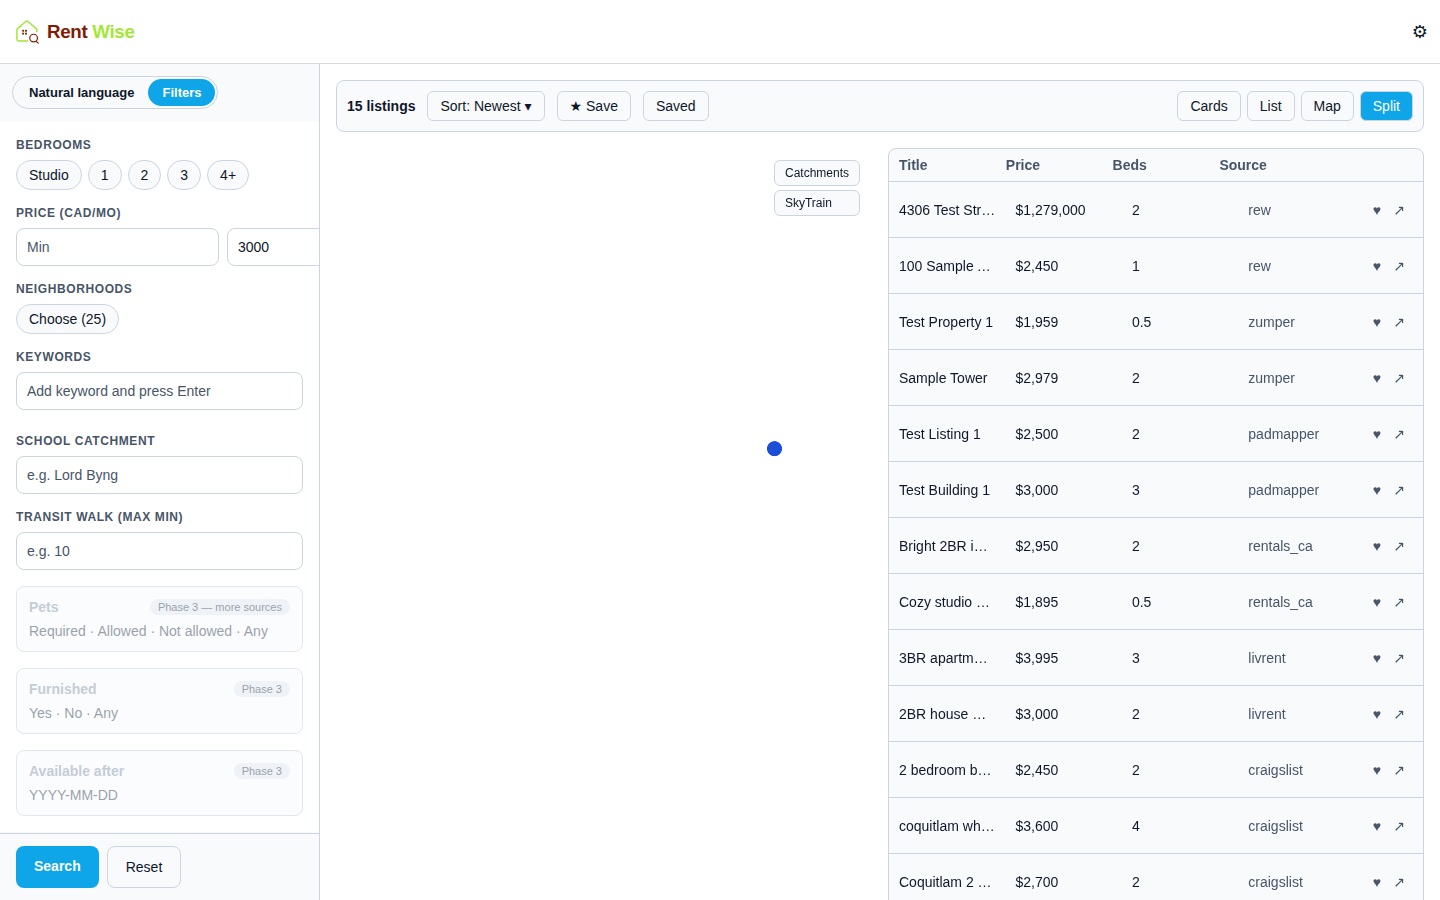
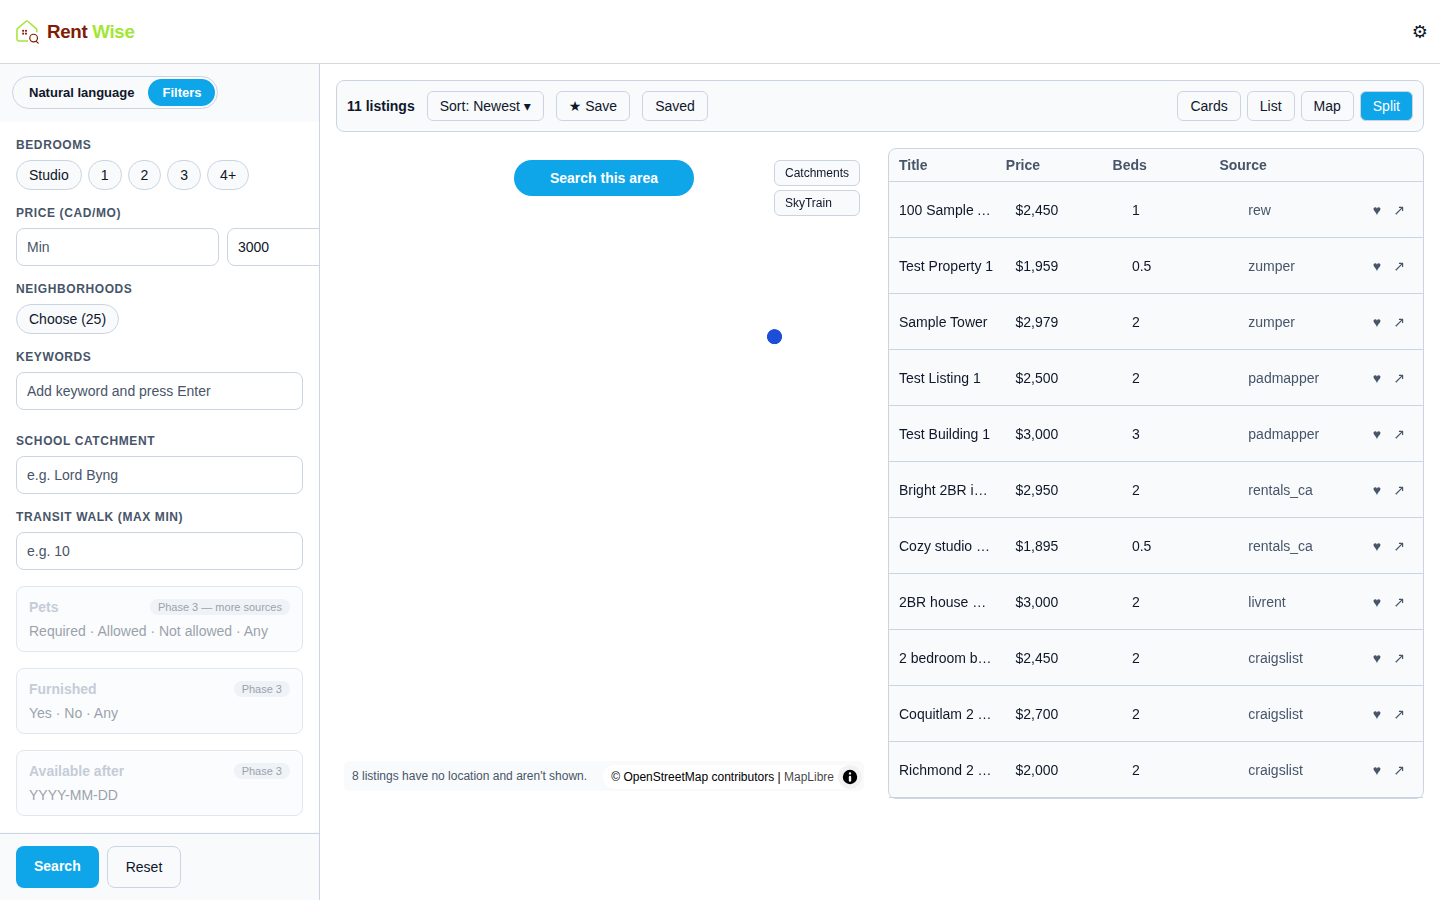
fix(adapters): honor price / bedroom / keyword filters in demo mode
Codex review on #117: with `supported_filters=set()` the aggregator's
`project_query_to_capabilities` was stripping `price_*`, `bedrooms_*`,
and `free_text_keywords` before the call ever reached the demo adapter,
so demo searches returned listings that violated the requested
constraints (the $1.3M REW row showed under a `price_max=3000` filter).

Declare the same five filters Craigslist supports and apply them inline
in `search()`. Rows with missing values for the filtered field are
dropped — silently keeping unpriced rows past a `price_max` bound is
the same kind of "wrong" this fix is preventing.

Verified live: `POST /search {price_max: 3000}` now returns 11 rows
(was 15) with `unsupported_filters: []`, and the updated
`docs/screenshots/03-filtered-price.png` reflects the corrected output.
6 new tests pin the behavior for price_min, price_max, bedroom bounds,
keyword AND-matching, missing-value handling, and the capability set.

https://claude.ai/code/session_01BgKpqJyJzEcZspxRi8wEjj

diff --git a/apps/api/tests/adapters/test_demo.py b/apps/api/tests/adapters/test_demo.py
@@ -79,6 +79,115 @@ async def test_fetch_listing_returns_match() -> None:
     assert (await adapter.fetch_listing("missing")) is None
 
 
+def _sample_listings() -> list[RawListing]:
+    """Three rows: cheap-studio, mid-2BR, luxury-3BR. Covers price + bedroom bounds."""
+    now = datetime.now(UTC)
+    return [
+        RawListing(
+            source="demo",
+            source_url=HttpUrl("https://example.com/1"),
+            source_listing_id="1",
+            title="Cozy studio downtown",
+            address="100 Test St, Vancouver, BC",
+            bedrooms=0.5,
+            price_cad=1500,
+            posted_at=now,
+            description_snippet="Pet friendly, near transit",
+        ),
+        RawListing(
+            source="demo",
+            source_url=HttpUrl("https://example.com/2"),
+            source_listing_id="2",
+            title="Sunny 2BR in Kitsilano",
+            address="200 Test Ave, Vancouver, BC",
+            bedrooms=2,
+            price_cad=2950,
+            posted_at=now,
+        ),
+        RawListing(
+            source="demo",
+            source_url=HttpUrl("https://example.com/3"),
+            source_listing_id="3",
+            title="Luxury 3BR penthouse",
+            address="300 Test Blvd, Vancouver, BC",
+            bedrooms=3,
+            price_cad=8500,
+            posted_at=now,
+        ),
+    ]
+
+
+async def _collect(adapter: FixtureAdapter, query: NormalizedQuery) -> list[RawListing]:
+    out: list[RawListing] = []
+    async for raw in adapter.search(query):
+        out.append(raw)
+    return out
+
+
[email redacted]
+async def test_search_honors_price_max() -> None:
+    """price_max must drop rows above the bound — the Codex review on PR #117
+    flagged demo mode returning a $1.3M listing under a price_max=3000 filter
+    because supported_filters was empty."""
+    adapter = FixtureAdapter(name="demo", listings=_sample_listings())
+    out = await _collect(adapter, NormalizedQuery(price_max=3000))
+    assert [r.source_listing_id for r in out] == ["1", "2"]
+
+
[email redacted]
+async def test_search_honors_price_min() -> None:
+    adapter = FixtureAdapter(name="demo", listings=_sample_listings())
+    out = await _collect(adapter, NormalizedQuery(price_min=2000))
+    assert [r.source_listing_id for r in out] == ["2", "3"]
+
+
[email redacted]
+async def test_search_honors_bedrooms_bounds() -> None:
+    adapter = FixtureAdapter(name="demo", listings=_sample_listings())
+    out = await _collect(adapter, NormalizedQuery(bedrooms_min=2, bedrooms_max=2))
+    assert [r.source_listing_id for r in out] == ["2"]
+
+
[email redacted]
+async def test_search_honors_free_text_keywords_and() -> None:
+    """All keywords must appear; substring match across title/address/snippet."""
+    adapter = FixtureAdapter(name="demo", listings=_sample_listings())
+    out = await _collect(adapter, NormalizedQuery(free_text_keywords=["pet", "transit"]))
+    assert [r.source_listing_id for r in out] == ["1"]
+    out = await _collect(adapter, NormalizedQuery(free_text_keywords=["nonexistent"]))
+    assert out == []
+
+
[email redacted]
+async def test_search_drops_rows_with_missing_price_when_price_filter_set() -> None:
+    """A row without ``price_cad`` can't be confirmed to satisfy a price
+    bound, so it's dropped — matches the "stricter than the user asked"
+    interpretation we use for unknown values."""
+    now = datetime.now(UTC)
+    rows = [
+        RawListing(
+            source="demo",
+            source_url=HttpUrl("https://example.com/np"),
+            source_listing_id="np",
+            title="No price row",
+            posted_at=now,
+        ),
+    ]
+    adapter = FixtureAdapter(name="demo", listings=rows)
+    assert await _collect(adapter, NormalizedQuery()) == rows
+    assert await _collect(adapter, NormalizedQuery(price_max=3000)) == []
+
+
[email redacted]
+async def test_capabilities_declare_filterable_fields() -> None:
+    """Aggregator strips fields the adapter doesn't declare. Demo must
+    declare the filters it honors so `project_query_to_capabilities` lets
+    them through."""
+    adapter = FixtureAdapter(name="demo", listings=[])
+    supported = adapter.capabilities["supported_filters"]
+    assert {"price_min", "price_max", "bedrooms_min", "bedrooms_max"} <= supported
+
+
 def test_demo_mode_swaps_adapters_in_build(monkeypatch: pytest.MonkeyPatch) -> None:
     from rentwise.http import search as search_module
     from rentwise.settings import settings

diff --git a/apps/api/rentwise/adapters/demo.py b/apps/api/rentwise/adapters/demo.py
@@ -158,8 +158,69 @@ _LOADERS = {
 
 
 _PRESET_CAPABILITIES: AdapterCapabilities = {
-    "supported_filters": set(),  # Demo data is small; aggregator post-filters.
+    # Declare the same filter set Craigslist supports so
+    # `project_query_to_capabilities` does NOT strip price / bedroom /
+    # keyword constraints before reaching `search()`. We apply them
+    # ourselves below — without this, demo searches would return rows
+    # that violate the user's filters (`price_max`, `bedrooms_*`, …),
+    # which makes demo mode useless as an API/UI smoke test.
+    "supported_filters": {
+        "bedrooms_min",
+        "bedrooms_max",
+        "price_min",
+        "price_max",
+        "free_text_keywords",
+    },
 }
+
+
+def _matches_query(raw: RawListing, query: NormalizedQuery) -> bool:
+    """True iff this fixture row should be yielded for ``query``.
+
+    Mirrors the obvious interpretations of each declared filter:
+
+    - ``price_min`` / ``price_max``: rows with no ``price_cad`` are
+      dropped when *either* bound is set (we can't confirm the row
+      satisfies it, and silently returning unpriced rows past a
+      ``price_max`` filter is the same kind of wrong this fix is
+      preventing).
+    - ``bedrooms_min`` / ``bedrooms_max``: same treatment — unknown
+      bedroom counts are dropped when either bound is set.
+    - ``free_text_keywords``: ALL keywords must appear as a casefold
+      substring across the title + address + description_snippet
+      (joined). Matches the "AND of keywords" intent of the filter UI;
+      no keywords → no constraint.
+    """
+    pmin = query.price_min
+    pmax = query.price_max
+    if pmin is not None or pmax is not None:
+        if raw.price_cad is None:
+            return False
+        if pmin is not None and raw.price_cad < pmin:
+            return False
+        if pmax is not None and raw.price_cad > pmax:
+            return False
+
+    bmin = query.bedrooms_min
+    bmax = query.bedrooms_max
+    if bmin is not None or bmax is not None:
+        if raw.bedrooms is None:
+            return False
+        if bmin is not None and raw.bedrooms < bmin:
+            return False
+        if bmax is not None and raw.bedrooms > bmax:
+            return False
+
+    keywords = query.free_text_keywords or []
+    if keywords:
+        haystack = " ".join(
+            filter(None, [raw.title, raw.address, raw.description_snippet])
+        ).casefold()
+        for kw in keywords:
+            if kw.casefold() not in haystack:
+                return False
+
+    return True
 
 
 class FixtureAdapter:
@@ -167,7 +228,8 @@ class FixtureAdapter:
 
     Implements ``SourceAdapter`` so the aggregator can treat it identically
     to a live adapter. No network is touched; ``health_check`` always
-    reports ``ok``.
+    reports ``ok``. Honors the same price / bedroom / keyword filter
+    contract declared in ``_PRESET_CAPABILITIES``.
     """
 
     method: Literal["api", "rss", "browser"] = "api"
@@ -182,9 +244,9 @@ class FixtureAdapter:
         self.capabilities: AdapterCapabilities = self._capabilities
 
     async def search(self, query: NormalizedQuery) -> AsyncIterator[RawListing]:
-        _ = query  # Aggregator post-filters; demo emits everything.
         for raw in self._listings:
-            yield raw
+            if _matches_query(raw, query):
+                yield raw
 
     async def fetch_listing(self, listing_id: str) -> RawListing | None:
         for raw in self._listings: